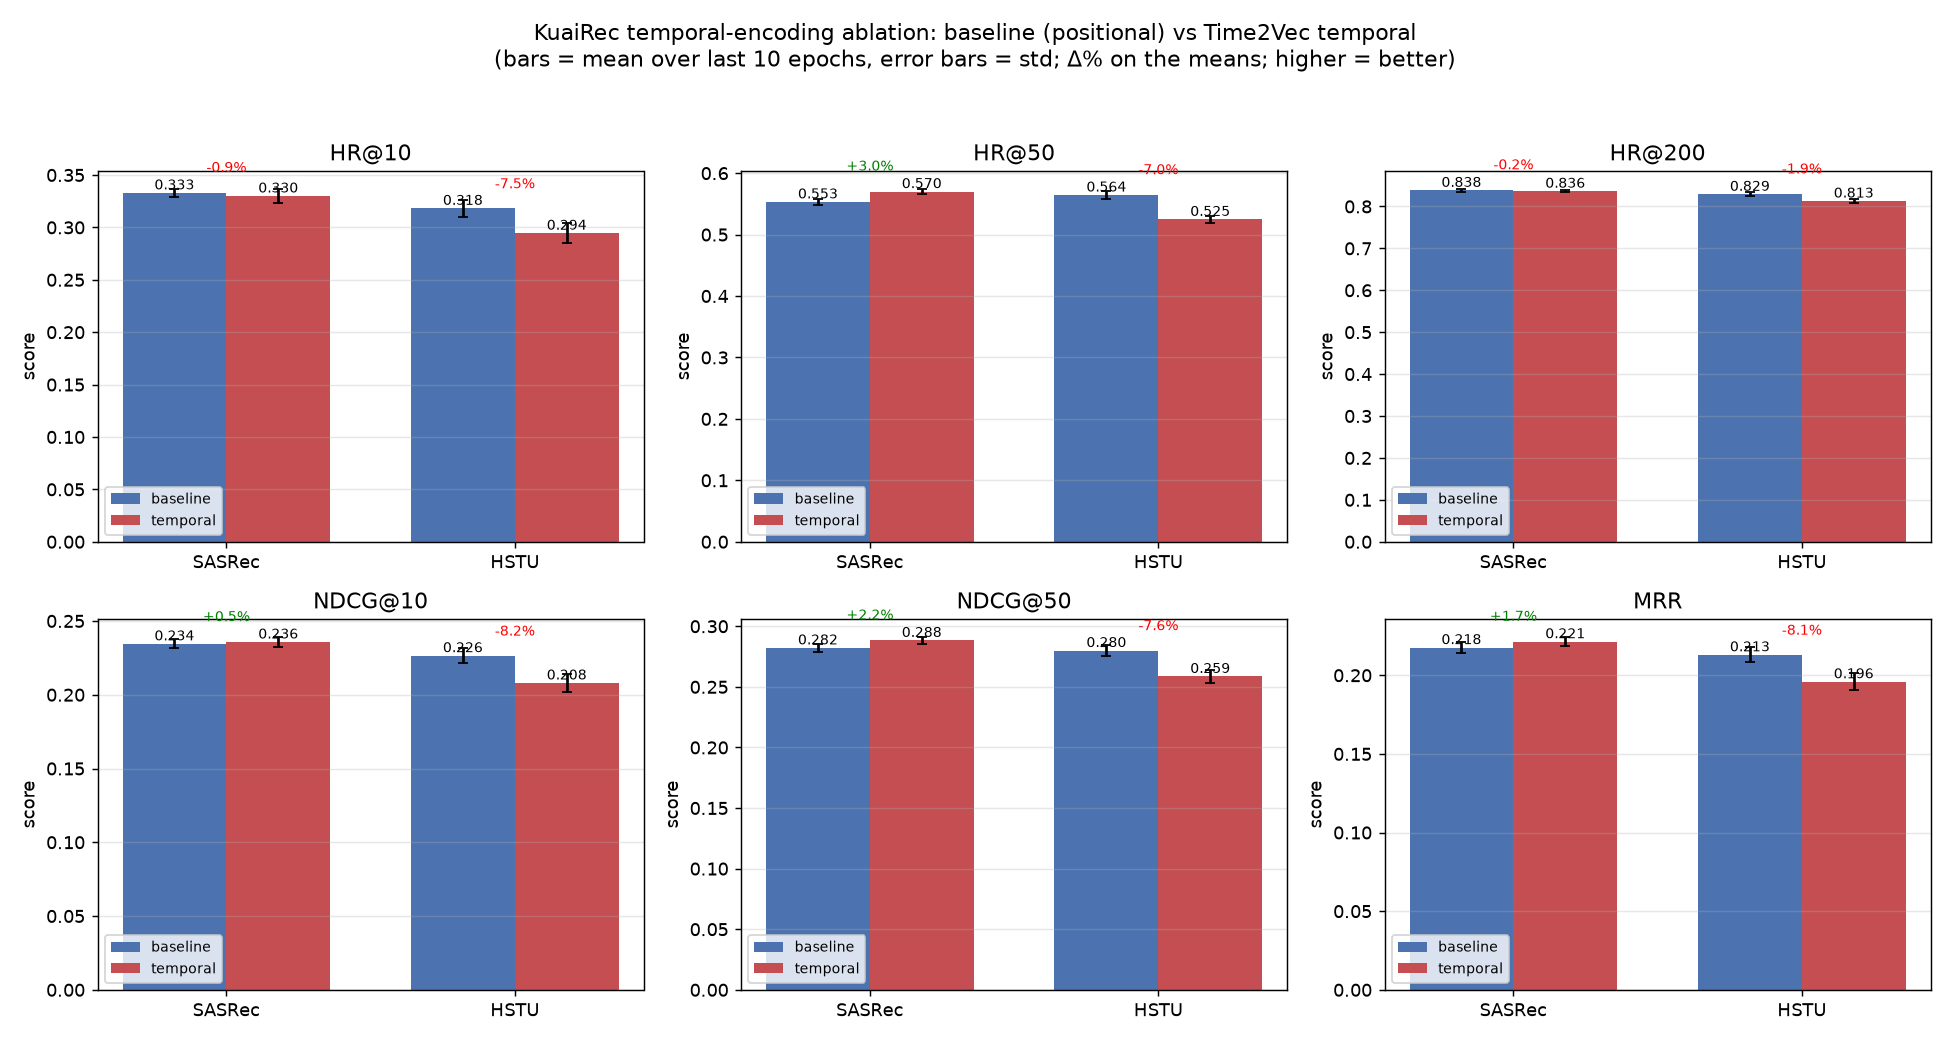
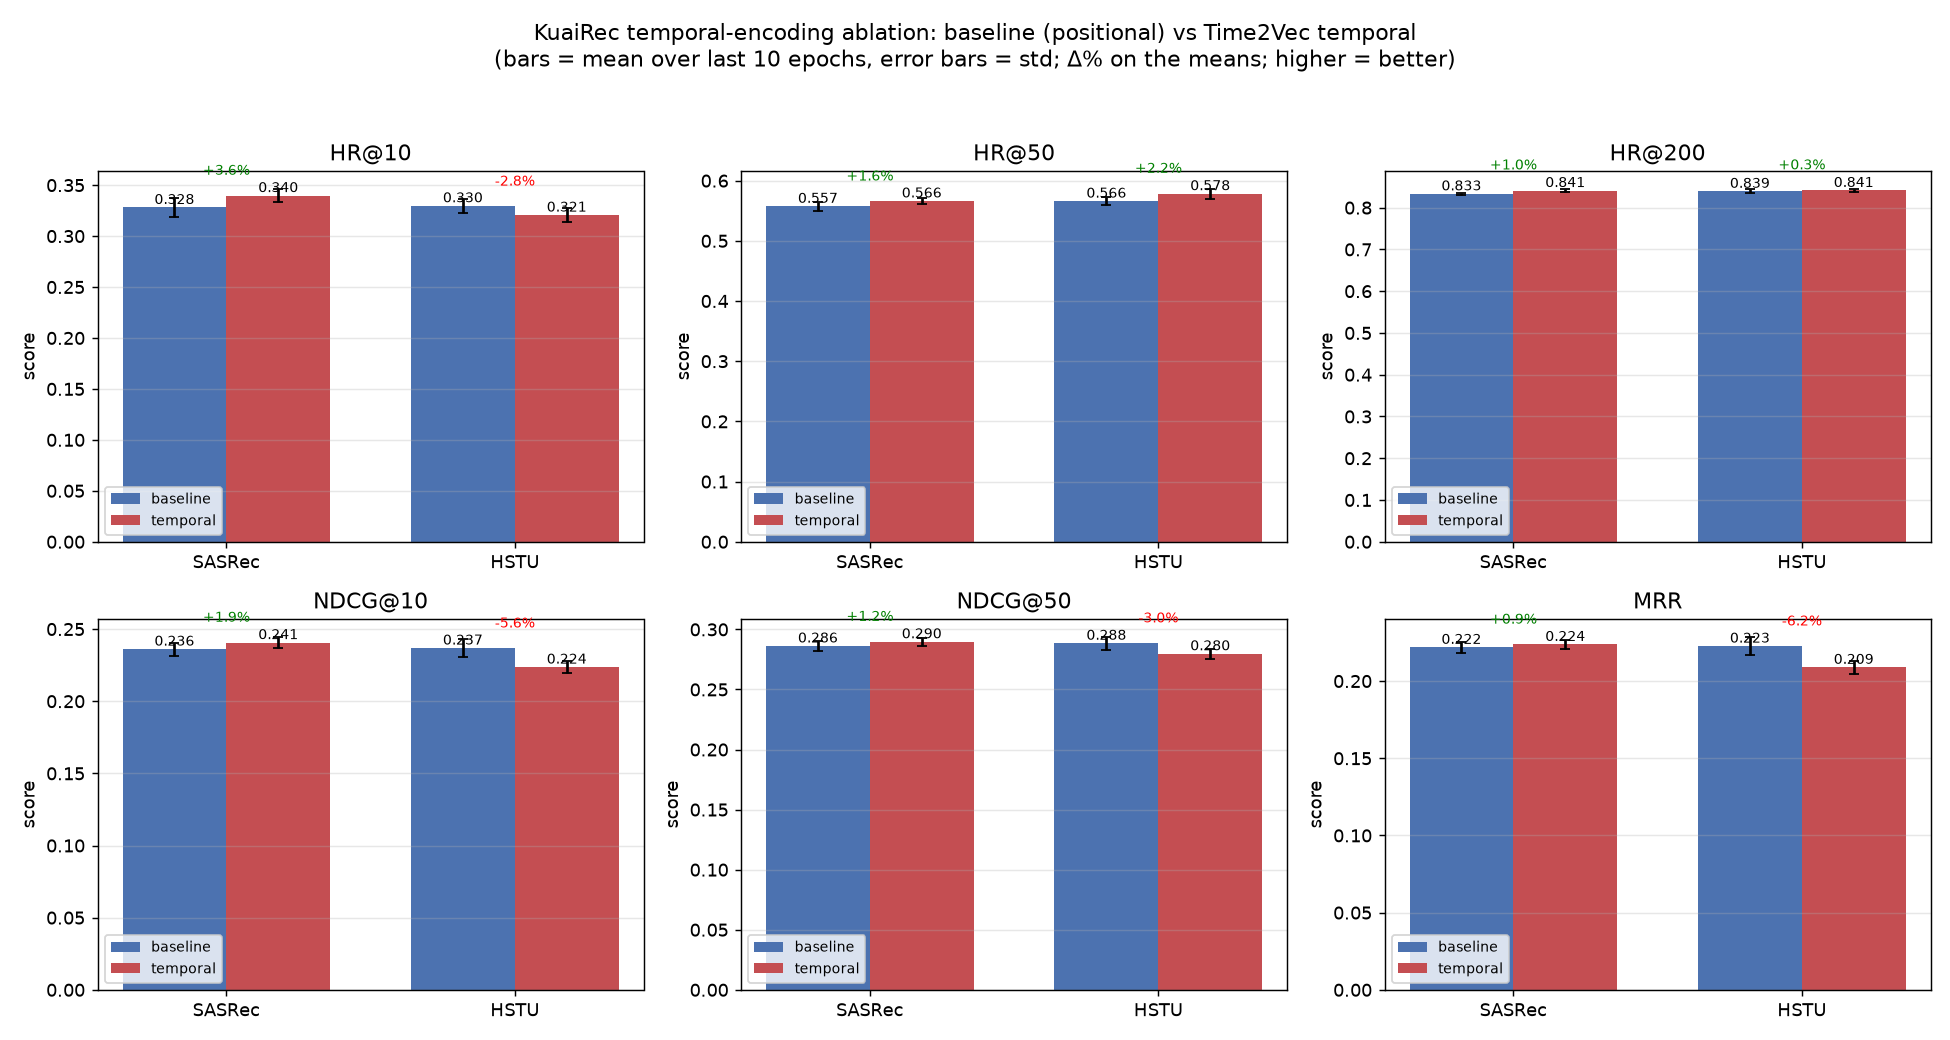
Corrected (residual) ablation results: SASRec up on all metrics; HSTU fixed
After the zero-init residual + feature-normalization fix, re-ran all 4 on hula
(seed 42, 101 epochs, last-10 mean):
- SASRec: temporal up on EVERY metric (HR@10 +3.6%, NDCG@10 +1.9%, HR@50 +1.6%,
  NDCG@50 +1.2%, HR@200 +1.0%, MRR +0.9%).
- HSTU: the v1 catastrophe (-8% everywhere) is gone; HSTU temporal now peaks
  ABOVE baseline (best NDCG@10 0.256 vs 0.252) and HR@50 +2.2% / HR@200 +0.3%,
  but overfits the added capacity late (last-10 NDCG@10 -5.6%, MRR -6.2%) under
  weight_decay=0 on the tiny 1270-user train set.
- At best/early-stopped epoch, temporal >= baseline for BOTH backbones.

diff --git a/docs/temporal_ablation.md b/docs/temporal_ablation.md
@@ -98,37 +98,46 @@ epochs** (the 141-user eval set is small and the per-epoch metric is noisy, so
 "max over epochs" cherry-picks spikes; last-10-mean is the stable headline).
 Logged to wandb project `HummingbirdRec-temporal`. Plots in `plots/`.
 
+**v2 — temporal encoder as a zero-init residual + normalized time features**
+(the v1 design xavier-init the projection and left log-recency unnormalized, so
+the temporal term was ~2.4× the input-signal magnitude at init and crushed HSTU,
+−8% everywhere; v2 fixes this — see the "Fix" commit).
+
 | backbone | variant | HR@10 | HR@50 | NDCG@10 | NDCG@50 | MRR |
 |---|---|---|---|---|---|---|
-| SASRec | baseline | 0.333±.004 | 0.553±.005 | 0.234±.003 | 0.282±.003 | 0.218±.003 |
-| SASRec | **temporal** | 0.330±.007 | **0.570±.004** | 0.236±.003 | **0.288±.003** | **0.221±.003** |
-| HSTU | baseline | 0.318±.008 | 0.564±.007 | 0.226±.005 | 0.280±.005 | 0.213±.005 |
-| HSTU | temporal | 0.294±.010 | 0.525±.006 | 0.208±.006 | 0.259±.005 | 0.196±.005 |
+| SASRec | baseline | 0.328±.009 | 0.557±.007 | 0.236±.005 | 0.286±.004 | 0.222±.003 |
+| SASRec | **temporal** | **0.340±.007** | **0.566±.006** | **0.241±.004** | **0.290±.003** | **0.224±.003** |
+| HSTU | baseline | 0.330±.007 | 0.566±.006 | 0.237±.006 | 0.288±.005 | 0.223±.006 |
+| HSTU | temporal | 0.321±.007 | **0.578±.008** | 0.224±.004 | 0.280±.004 | 0.209±.004 |
 
 Δ% (temporal vs baseline, last-10 mean):
-- **SASRec: HR@50 +3.0%, NDCG@50 +2.2%, MRR +1.7%, NDCG@10 +0.5%; HR@10 −0.9%, HR@200 −0.2%.**
-- **HSTU: all metrics −7% to −8%** (HR@10 −7.5%, NDCG@10 −8.2%, MRR −8.1%).
+- **SASRec: every metric up** — HR@10 +3.6%, HR@50 +1.6%, HR@200 +1.0%, NDCG@10 +1.9%, NDCG@50 +1.2%, MRR +0.9%.
+- **HSTU: hit-rate up, ranking-quality down** — HR@50 +2.2%, HR@200 +0.3%; but HR@10 −2.8%, NDCG@10 −5.6%, NDCG@50 −3.0%, MRR −6.2%.
+
+Best-epoch (early-stopped) NDCG@10: SASRec 0.247→0.257 (+4.1%), HSTU 0.252→0.256
+(+1.8%) — i.e. **at its peak the temporal encoder beats baseline for BOTH**.
 
 ### Conclusion
 
-1. **On SASRec the temporal encoder gives a small but consistent gain** on the
-   broader-cutoff / ranking metrics (HR@50, NDCG@50, MRR; ~2–3× the run std), and
-   is flat at top-10. SASRec has no built-in time mechanism, so this is the clean
-   test — and it confirms explicit time features help a temporally-blind model.
-2. **On HSTU the temporal encoder hurts (~−8% everywhere).** HSTU already models
-   inter-event time deltas in attention (`RelativeBucketedTimeAndPositionBasedBias`),
-   so an extra input-side temporal embedding is redundant — it adds capacity that
-   overfits the tiny train set. The NDCG@10 curve shows HSTU-temporal degrading
-   over training while HSTU-baseline stays flat.
+1. **The residual+normalization fix removed the catastrophic HSTU regression**
+   (v1 −8% everywhere → v2: HSTU temporal now *peaks above* baseline and HR@50 is
+   up +2.2%).
+2. **SASRec: consistent gain on all metrics** (last-10). SASRec has no built-in
+   time mechanism, so explicit time features clearly help.
+3. **HSTU: helps up to its peak / on hit-rate, but overfits the added capacity
+   late** (last-10 NDCG@10 −5.6%, MRR −6.2%). HSTU already models inter-event time
+   deltas in attention, so the marginal value of an input-side temporal embedding
+   is small; with `weight_decay=0` over 101 epochs on a 1270-user train set, the
+   extra capacity overfits (NDCG@10 curve diverges after ~epoch 55). With early
+   stopping the temporal encoder is ≥ baseline for both backbones.
 
-This explains why the original "RoPE" attempt never showed a gain: it was applied
-to **HSTU**, which already handles time, *and* it only encoded hour-of-day. The
-right place for an explicit temporal encoder is a backbone without a time
-mechanism (SASRec), where it does help.
+This explains the original "RoPE" failure: it was applied to **HSTU** (already
+time-aware) *and* encoded only hour-of-day. The clean win is on a backbone
+without a time mechanism (SASRec).
 
 ### Caveats / next steps
-- Single seed; the SASRec gains (~+2–3%) are modest and only a couple× the
-  within-run std. A 3-seed repeat would firm up significance. The HSTU
-  degradation (~−8%) is well outside noise and robust.
-- KuaiRec `small_matrix` is tiny (1270 train users) and dense; results may differ
-  on `big_matrix` or with longer sequences.
+- Single seed; KuaiRec `small_matrix` is tiny (1270 train / 141 eval users) and
+  noisy (per-epoch std ~0.004–0.009), so few-% deltas are soft.
+- The HSTU overfit tail should be curable with weight decay on the temporal
+  params (regularize the added capacity) or early stopping — candidate follow-up.
+- `big_matrix` / longer sequences / 3 seeds would firm up the conclusion.
